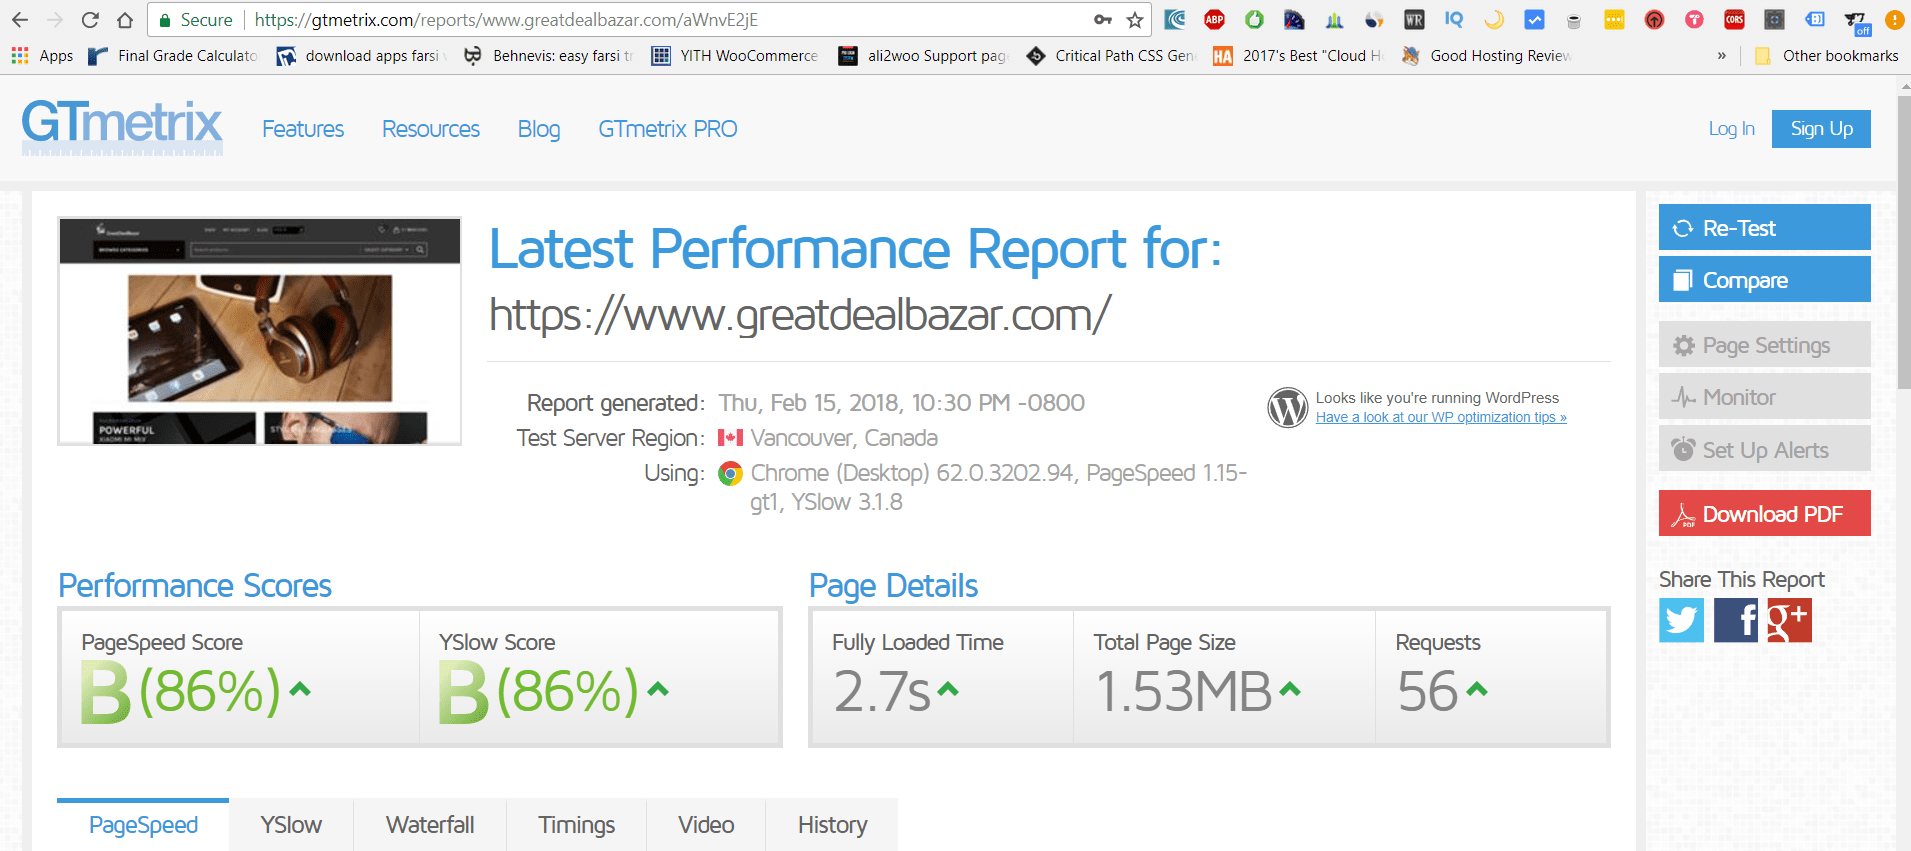
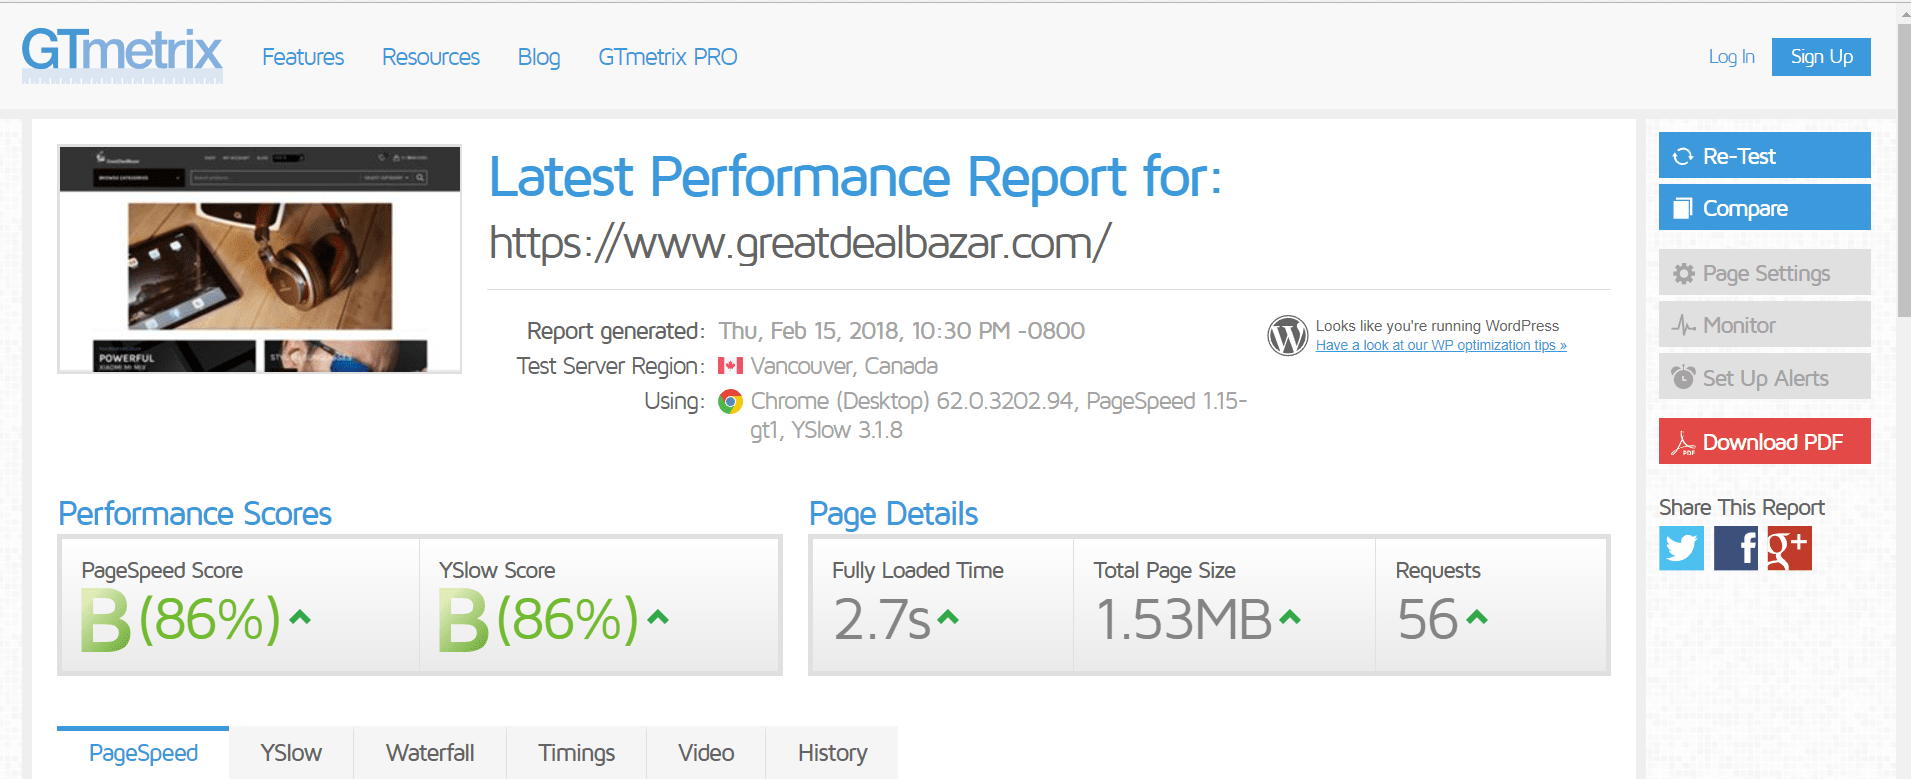
Images border-radius has been removed

diff --git a/portfolio/css/main.css b/portfolio/css/main.css
@@ -965,7 +965,7 @@ color: black;
 	/* background: rgba(0, 0, 0, 0.2); */
 	/* border: 1px solid #D4F2D1; */
   margin-bottom: 1em;
-  border-radius: 20px;
+  /* border-radius: 20px; */
 }
 
 /* #space{
@@ -988,7 +988,7 @@ color: black;
   /* height: 500px; */
   /* max-height: 800px; */
 	/* border: 1px solid #FFDCA7; */
-  border-radius: 20px;
+  /* border-radius: 20px; */
 }
 
 /* zoom on hover */
@@ -1046,7 +1046,7 @@ color: black;
 	background: rgba(0, 0, 0, 0.2);
 	/* border: 1px solid #D4F2D1; */
   margin-bottom: 1em;
-  border-radius: 20px;
+  /* border-radius: 20px; */
 }
 
 /* zoom on hover */
@@ -1110,7 +1110,7 @@ color: black;
 	/* background: rgba(0, 0, 0, 0.2); */
 	/* border: 1px solid #D4F2D1; */
   margin-bottom: 1em;
-  border-radius: 20px;
+  /* border-radius: 20px; */
 }
 
 .process-p3-sketch-sample-left{
@@ -1187,7 +1187,7 @@ color: black;
 
   height: 200px;
   width: 350px;
-	border-radius: 10%;
+	/* border-radius: 10%; */
   background-size: 100% 100%;
   box-shadow: 5px 5px 10px rgba(0,0,0,0.5);
   
@@ -1198,7 +1198,7 @@ color: black;
   background-image: url('https://image.ibb.co/gBr0hm/sample3.png');
   height: 200px;
   width: 350px;
-	border-radius: 10%;
+	/* border-radius: 10%; */
   background-size: 100% 100%;
   box-shadow: 5px 5px 10px rgba(0,0,0,0.5);
 }
@@ -1208,7 +1208,7 @@ color: black;
   background-image: url('https://image.ibb.co/mCm6KJ/project4img_min.png');
   height: 200px;
   width: 350px;
-	border-radius: 10%;
+	/* border-radius: 10%; */
   background-size: 100% 100%;
   box-shadow: 5px 5px 10px rgba(0,0,0,0.5);
 }
@@ -1219,7 +1219,7 @@ color: black;
   background-image: url('https://image.ibb.co/kWEjad/mag1.png');
   height: 200px;
   width: 350px;
-	border-radius: 10%;
+	/* border-radius: 10%; */
   background-size: 100% 100%;
   box-shadow: 5px 5px 10px rgba(0,0,0,0.5);
 }
@@ -1229,7 +1229,7 @@ color: black;
   background-image: url('https://image.ibb.co/m7aQWy/home_laptop_min.jpg');
   height: 200px;
   width: 350px;
-	border-radius: 10%;
+	/* border-radius: 10%; */
   background-size: 100% 100%;
   box-shadow: 5px 5px 10px rgba(0,0,0,0.5);
 }
@@ -1238,7 +1238,7 @@ color: black;
   background-image: url('https://image.ibb.co/jbDo1J/iat335_main.jpg');
   height: 200px;
   width: 350px;
-	border-radius: 10%;
+	/* border-radius: 10%; */
   background-size: 100% 100%;
   box-shadow: 5px 5px 10px rgba(0,0,0,0.5);
 }
@@ -1248,7 +1248,7 @@ color: black;
   background-image: url('https://image.ibb.co/gfcStd/Tile_Room_Exterior_min.png');
   height: 200px;
   width: 350px;
-	border-radius: 10%;
+	/* border-radius: 10%; */
   background-size: 100% 100%;
   box-shadow: 5px 5px 10px rgba(0,0,0,0.5);
 }
@@ -1623,7 +1623,7 @@ display: block;
   -moz-animation-duration: 2s;
   -moz-animation-timing-function: linear;
   -moz-animation-iteration-count: infinite;
-  border-radius: 20px;
+  /* border-radius: 20px; */
 }
 
 @keyframes flash_border {
@@ -2020,7 +2020,7 @@ margin: 0px;
   background:#fff;
   box-shadow:0px 5px 20px rgba(0,0,0,0.1);
   display:inline-block;
-  border-radius:50px;
+  /* border-radius:50px; */
   position:relative;
   /* margin-left: 24%; */
   /* margin-bottom: 2%; */
@@ -2104,7 +2104,7 @@ margin: 0px;
   left:0px;
   top:0px;
   z-index:1;
-  border-radius:50px;
+  /* border-radius:50px; */
   transition-duration:0.6s;
   transition-timing-function: cubic-bezier(0.68, -0.55, 0.265, 1.55);
   background: #4b4b4b;

diff --git a/portfolio/project3.html b/portfolio/project3.html
@@ -77,7 +77,7 @@
              
 
 
-        <h6 class="textstyle" id="p3-h6"> <span style="font-weight:bold; color: #4b4b4b">The Game: </span> Phase is a space exploration and puzzle game that takes place on a space station that is floating throughout the galaxy. Unfortunately, the space station gets hit by a meteor shower, which damages part of the station and alters its trajectory directing the space station straight towards a deadly asteroid field. As the sole survivor on the station, the goal of the user is to go through a series of puzzles to reach the backup generator room and return the station back to its original trajectory. The user begins in a room, which acts as a start screen featuring three consoles: one containing information regarding the controls, one featuring information about the story world and the middle console contains a button allowing the user to “begin” the game.<br><br> <img style="border-radius:50px;" class="small-images"  src="img/products/phase/Start-Screen.PNG"><br><br> <span style="font-weight:bold">Team: </span> We developed the game in teams of 5. <br> <span style="font-weight:bold">Roles: </span> We devided the project into levels. Each person was responsible for designing and programming a puzzle-based level. I proposed conveyor level idea, and designed and programmed it from start to finish. <br>
+        <h6 class="textstyle" id="p3-h6"> <span style="font-weight:bold; color: #4b4b4b">The Game: </span> Phase is a space exploration and puzzle game that takes place on a space station that is floating throughout the galaxy. Unfortunately, the space station gets hit by a meteor shower, which damages part of the station and alters its trajectory directing the space station straight towards a deadly asteroid field. As the sole survivor on the station, the goal of the user is to go through a series of puzzles to reach the backup generator room and return the station back to its original trajectory. The user begins in a room, which acts as a start screen featuring three consoles: one containing information regarding the controls, one featuring information about the story world and the middle console contains a button allowing the user to “begin” the game.<br><br> <img class="small-images"  src="img/products/phase/Start-Screen.PNG"><br><br> <span style="font-weight:bold">Team: </span> We developed the game in teams of 5. <br> <span style="font-weight:bold">Roles: </span> We devided the project into levels. Each person was responsible for designing and programming a puzzle-based level. I proposed conveyor level idea, and designed and programmed it from start to finish. <br>
 
           <span style="font-weight:bold" id="Role">My Role: </span>
           I was responsible for the Conveyor Room. Coding/scripting, lighting,

diff --git a/portfolio/css/flexbox.css b/portfolio/css/flexbox.css
@@ -146,13 +146,13 @@
 #p1-process-gallery-size{
   /* width:100%; 
   height:450px; */
-  border-radius: 20px;
+  /* border-radius: 20px; */
 }
 
 #p3-process-gallery-size{
   width:100%; 
   height:550px;
-  border-radius: 20px;
+  /* border-radius: 20px; */
 }
 .home-products{
   /*border: 1px solid #fff;*/
